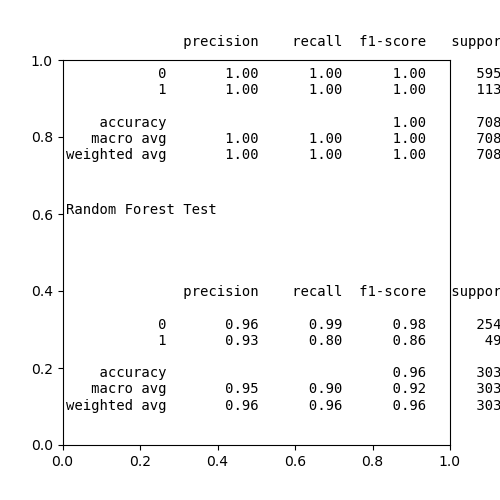
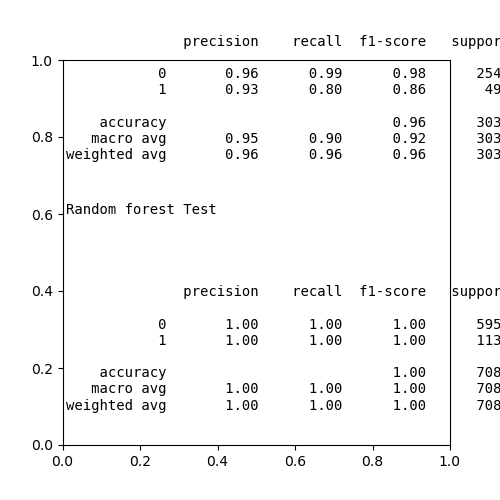
tested after refactoring cls rep img func

diff --git a/churn_library.py b/churn_library.py
@@ -120,48 +120,35 @@ def perform_feature_engineering(dframe, response):
 
 def classification_report_image(y_train,
                                 y_test,
-                                y_train_preds_lr,
-                                y_train_preds_rf,
-                                y_test_preds_lr,
-                                y_test_preds_rf):
+                                pred_dict):
     '''
     produces classification report for training and testing results and stores report as image
     in images folder
     input:
             y_train: training response values
             y_test:  test response values
-            y_train_preds_lr: training predictions from logistic regression
-            y_train_preds_rf: training predictions from random forest
-            y_test_preds_lr: test predictions from logistic regression
-            y_test_preds_rf: test predictions from random forest
+            pred_dict: dictionary with train and test response predictions
+                                       model type
+                                       path to save image to.
 
     output:
              None
     '''
+    model_name = pred_dict['model_name'].capitalize()
+    y_train_preds = pred_dict['y_train_pred']
+    y_test_preds = pred_dict['y_test_pred']
+    out_pth = pred_dict['out_path']
     fig, axis = plt.subplots(figsize=(5, 5))
-    axis.text(0.01, 1.25, str('Random Forest Train'), {
+    axis.text(0.01, 1.25, str(model_name + ' Train'), {
             'fontsize': 10}, fontproperties='monospace')
-    axis.text(0.01, 0.05, str(classification_report(y_test, y_test_preds_rf)), {
+    axis.text(0.01, 0.05, str(classification_report(y_train, y_train_preds)), {
             'fontsize': 10}, fontproperties='monospace')  # approach improved by OP -> monospace!
-    axis.text(0.01, 0.6, str('Random Forest Test'), {
+    axis.text(0.01, 0.6, str(model_name + ' Test'), {
             'fontsize': 10}, fontproperties='monospace')
-    axis.text(0.01, 0.7, str(classification_report(y_train, y_train_preds_rf)), {
+    axis.text(0.01, 0.7, str(classification_report(y_test, y_test_preds)), {
             'fontsize': 10}, fontproperties='monospace')  # approach improved by OP -> monospace!
     axis.set_visible('off')
-    fig.savefig('./images/results/rf_cls_rep.png',)
-    plt.close(fig)
-
-    fig, axis = plt.subplots(figsize=(5, 5))
-    axis.text(0.01, 1.25, str('Logistic Regression Train'),
-            {'fontsize': 10}, fontproperties='monospace')
-    axis.text(0.01, 0.05, str(classification_report(y_train, y_train_preds_lr)), {
-            'fontsize': 10}, fontproperties='monospace')  # approach improved by OP -> monospace!
-    axis.text(0.01, 0.6, str('Logistic Regression Test'), {
-            'fontsize': 10}, fontproperties='monospace')
-    axis.text(0.01, 0.7, str(classification_report(y_test, y_test_preds_lr)), {
-            'fontsize': 10}, fontproperties='monospace')  # approach improved by OP -> monospace!
-    axis.set_visible('off')
-    fig.savefig('./images/results/lr_cls_rep.png')
+    fig.savefig(out_pth)
     plt.close(fig)
 
 
@@ -227,8 +214,8 @@ def train_models(x_train, x_test, y_train, y_test, test_mode=False):
         rfc_model = joblib.load('./models/rfc_model.pkl')
         lr_model = joblib.load('./models/logistic_model.pkl')
     else:
-        rfc = RandomForestClassifier(random_state=42)
-        lrc = LogisticRegression(solver='lbfgs', max_iter=3000)
+        rfc_model = RandomForestClassifier(random_state=42)
+        lr_model = LogisticRegression(solver='lbfgs', max_iter=3000)
 
         param_grid = {
             'n_estimators': [200, 500],
@@ -236,15 +223,14 @@ def train_models(x_train, x_test, y_train, y_test, test_mode=False):
             'max_depth': [4, 5, 100],
             'criterion': ['gini', 'entropy']
         }
-        cv_rfc = GridSearchCV(estimator=rfc, param_grid=param_grid, cv=5)
+        cv_rfc = GridSearchCV(estimator=rfc_model, param_grid=param_grid, cv=5)
         cv_rfc.fit(x_train, y_train)
         # save best model
         joblib.dump(cv_rfc.best_estimator_, './models/rfc_model.pkl')
-        joblib.dump(lrc, './models/logistic_model.pkl')
+        joblib.dump(lr_model, './models/logistic_model.pkl')
         rfc_model = cv_rfc.best_estimator_
 
-        lrc.fit(x_train, y_train)
-        lr_model = lrc
+        lr_model.fit(x_train, y_train)
 
     y_train_preds_rf = rfc_model.predict(x_train)
     y_test_preds_rf = rfc_model.predict(x_test)
@@ -263,10 +249,17 @@ def train_models(x_train, x_test, y_train, y_test, test_mode=False):
     feature_importance_plot(
         rfc_model, x_train, out_pth='./images/results/rf_feat_imp.png')
 
+    cls_rep_payload_lr = dict(
+        y_train_pred=y_train_preds_lr, y_test_pred=y_test_preds_lr,
+        model_name='Logistic Regression', out_path='./images/results/lr_cls_rep.png')
+    cls_rep_payload_rf = dict(
+        y_train_pred=y_train_preds_rf, y_test_pred=y_test_preds_rf,
+        model_name='Random Forest', out_path='./images/results/rf_cls_rep.png')
     classification_report_image(
-        y_train=y_train, y_test=y_test, y_train_preds_lr=y_train_preds_lr,
-        y_train_preds_rf=y_train_preds_rf, y_test_preds_lr=y_test_preds_lr,
-        y_test_preds_rf=y_test_preds_rf)
+        y_train=y_train, y_test=y_test, pred_dict=cls_rep_payload_lr)
+    classification_report_image(
+        y_train=y_train, y_test=y_test, pred_dict=cls_rep_payload_rf
+    )
 
 
 if __name__ == "__main__":
